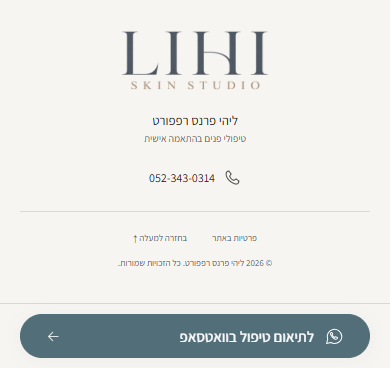
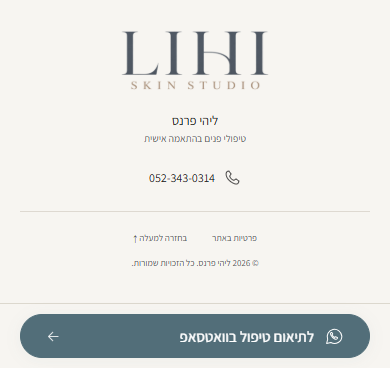
Use Lihi Parnes consistently across website text and metadata

Changed region(s): [[0.3077, 0.6875, 0.7077, 0.7473], [0.4, 0.2989, 0.6154, 0.3587]]

diff --git a/src/main.js b/src/main.js
@@ -46,7 +46,7 @@ document.querySelector('#app').innerHTML = `
   <main id="main">
     <section class="hero" id="home" aria-labelledby="hero-title"><div class="hero-inner wrap">
       <div class="hero-copy"><div class="hero-eyebrow"><span></span>קוסמטיקה אישית. מחשבה עמוקה.</div><h1 id="hero-title">הדרך שלך <br>לעור בריא ומלא<br><span>ביטחון מתחילה כאן.</span></h1><p>טיפולי פנים בהתאמה אישית, אבחון מקצועי<br class="desktop-break"> וליווי בדרך לעור מאוזן ומטופח.</p>${cta()}<div class="hero-trust"><span>${icon('heart')}יחס אישי</span><span>${icon('diamond')}אבחון מקצועי</span><span>${icon('leaf')}התאמה לעור שלך</span></div></div>
-      <div class="hero-visual">${media('hero-portrait', 'hero-media', { priority: true })}<span class="hero-orbit" aria-hidden="true"></span><div class="hero-signature">ליהי פרנס רפפורט<small>טיפול שמתחיל בהקשבה</small></div><button class="hero-video-link" data-lightbox="hero-video" aria-label="הצצה לקליניקה">${icon('play')}<span>רגע של שקט. זמן לעצמך.</span></button></div>
+      <div class="hero-visual">${media('hero-portrait', 'hero-media', { priority: true })}<span class="hero-orbit" aria-hidden="true"></span><div class="hero-signature">ליהי פרנס<small>טיפול שמתחיל בהקשבה</small></div><button class="hero-video-link" data-lightbox="hero-video" aria-label="הצצה לקליניקה">${icon('play')}<span>רגע של שקט. זמן לעצמך.</span></button></div>
     </div><span class="hero-side-note" dir="ltr" lang="en">YOUR SKIN. YOUR STORY.</span></section>
     <div class="brand-note"><span></span><p>כי העור שלך הוא חלק מהסיפור שלך.</p><span></span></div>
 
@@ -57,7 +57,7 @@ document.querySelector('#app').innerHTML = `
 
     <section class="section results-section" id="results"><div class="wrap results-layout"><div class="results-copy">${heading('REAL SKIN. PERSONAL JOURNEY.', 'תוצאות שמדברות<br>בעד עצמן', 'תהליך אישי, תשומת לב לפרטים<br>ומקום לשינוי בקצב של העור שלך.', 'align-start')}<div class="result-description" aria-live="polite"><h3>${results[0].title}</h3><p>${results[0].text}</p></div><div class="carousel-controls"><button class="icon-button result-prev" aria-label="לתוצאה הקודמת">${icon('arrow')}</button><div class="result-dots dots">${results.map((_, i) => `<button aria-label="הצגת תיעוד ${i + 1}" aria-pressed="${i === 0}" data-result="${i}" class="dot ${i === 0 ? 'is-active' : ''}"></button>`).join('')}</div><button class="icon-button result-next" aria-label="לתוצאה הבאה">${icon('arrow')}</button></div><p class="results-note">התוצאות משתנות מאדם לאדם. תיעוד יפורסם בהסכמה בלבד.</p></div><div class="result-stage">${resultMarkup(0)}<span class="slider-hint">${icon('arrow')} גררי כדי להשוות בין לפני ואחרי</span></div></div></section>
 
-    <section class="section about-section wrap" id="about"><div class="about-visual">${media('about-portrait', 'about-portrait')}<button class="certificate" data-lightbox="certification" aria-label="צפייה במקום המיועד לתעודת ההכשרה">${media('certification')}<span>מקצועיות, עד הפרטים הקטנים ${icon('arrow')}</span></button></div><div class="about-copy">${heading('A PERSONAL APPROACH', 'נעים להכיר, ליהי', 'ליהי פרנס רפפורט · קוסמטיקה אישית', 'align-start')}${business.about.map(p => `<p>${p}</p>`).join('')}<div class="about-values"><span>${icon('face')}מסתכלת על העור. רואה אותך.</span><span>${icon('leaf')}התאמה אישית, בכל שלב בדרך.</span><span>${icon('heart')}מרחב נעים, גישה קשובה.</span></div>${business.training ? `<p>${escape(business.training)}</p>` : ''}${cta('בואי נכיר', 'היי ליהי, אשמח להכיר ולשמוע על מפגש ראשון בקליניקה.', 'button-outline')}</div></section>
+    <section class="section about-section wrap" id="about"><div class="about-visual">${media('about-portrait', 'about-portrait')}<button class="certificate" data-lightbox="certification" aria-label="צפייה במקום המיועד לתעודת ההכשרה">${media('certification')}<span>מקצועיות, עד הפרטים הקטנים ${icon('arrow')}</span></button></div><div class="about-copy">${heading('A PERSONAL APPROACH', 'נעים להכיר, ליהי', 'ליהי פרנס · קוסמטיקה אישית', 'align-start')}${business.about.map(p => `<p>${p}</p>`).join('')}<div class="about-values"><span>${icon('face')}מסתכלת על העור. רואה אותך.</span><span>${icon('leaf')}התאמה אישית, בכל שלב בדרך.</span><span>${icon('heart')}מרחב נעים, גישה קשובה.</span></div>${business.training ? `<p>${escape(business.training)}</p>` : ''}${cta('בואי נכיר', 'היי ליהי, אשמח להכיר ולשמוע על מפגש ראשון בקליניקה.', 'button-outline')}</div></section>
 
     <section class="section experience-section" id="experience"><div class="wrap">${heading('THE TREATMENT EXPERIENCE', 'הדרך שלך לעור מטופח', 'תהליך אישי. גישה מקצועית. רגע שהוא רק שלך.')}<div class="steps">${steps.map((step, i) => `<article class="step reveal"><div class="step-icon">${icon(step.icon)}<span dir="ltr">0${i + 1}</span></div><h3>${step.title}</h3><p>${step.text}</p></article>`).join('')}</div><div class="treatment-media"><button class="treatment-film media-button" data-lightbox="treatment-video" aria-label="צפייה בסרטון חוויית הטיפול">${media('treatment-video')}<span class="film-overlay"><span class="play-circle">${icon('play')}</span><span>הצצה לרגע שלך בקליניקה<small>${mediaSource('treatment-video') ? 'טיפול אישי, מקרוב' : 'סרטון הטיפול יתווסף בקרוב'}</small></span></span><span class="film-corner" dir="ltr">A MOMENT FOR YOURSELF</span></button><button class="treatment-detail media-button" data-lightbox="treatment-detail" aria-label="צפייה בפרטים הקטנים של הטיפול">${media('treatment-detail')}</button></div></div></section>
 

diff --git a/src/media.js b/src/media.js
@@ -4,12 +4,12 @@ const asset = (id, section, path, label, ratio, dimensions, options = {}) => ({
 });
 
 export const mediaManifest = [
-  asset('hero-portrait', 'פתיחה', 'hero/hero-portrait.webp', 'ליהי פרנס רפפורט', '3 / 4', '1086 × 1448', { placeholder: false, alt: 'ליהי פרנס רפפורט מחזיקה תכשיר טיפוח מקצועי', tone: 'hero', mobilePath: '/media/hero/hero-mobile.webp', mobileDimensions: '900 × 1200' }),
+  asset('hero-portrait', 'פתיחה', 'hero/hero-portrait.webp', 'ליהי פרנס', '3 / 4', '1086 × 1448', { placeholder: false, alt: 'ליהי פרנס מחזיקה תכשיר טיפוח מקצועי', tone: 'hero', mobilePath: '/media/hero/hero-mobile.webp', mobileDimensions: '900 × 1200' }),
   asset('hero-video', 'פתיחה', 'hero/hero-video.mp4', 'רגע מהקליניקה', '9 / 16', '1080 × 1920', { type: 'video', required: false, posterId: 'hero-portrait' }),
   ...['acne', 'pigmentation', 'texture', 'glow'].map((id, i) => asset(`concern-${id}`, 'נושאי טיפול', `concerns/${id}.webp`, ['אקנה ופצעונים', 'גוון העור', 'מרקם העור', 'זוהר ולחות'][i], '5 / 4', '1000 × 800', { tone: ['clay', 'sand', 'stone', 'blue'][i] })),
   ...['01', '02', '03'].flatMap(id => ['before', 'after'].map(side => asset(`result-${id}-${side}`, 'תוצאות', `results/result-${id}-${side}.webp`, `תוצאה ${id} — ${side === 'before' ? 'לפני' : 'אחרי'}`, id === '01' ? '6 / 7' : '4 / 3', id === '01' ? (side === 'before' ? '692 × 808' : '666 × 786') : '1200 × 900', { placeholder: id !== '01', alt: `תיעוד העור ${side === 'before' ? 'לפני' : 'אחרי'} הטיפול — מבט מהצד`, tone: 'stone', consentRequired: true }))),
-  asset('about-portrait', 'אודות', 'hero/hero-portrait.webp', 'ליהי, במבט אישי', '3 / 4', '1086 × 1448', { placeholder: false, alt: 'ליהי פרנס רפפורט בפורטרט מקצועי', tone: 'clay' }),
-  asset('certification', 'אודות', 'about/certification.webp', 'תעודת ההכשרה', '4 / 5', '806 × 1006', { placeholder: false, alt: 'תעודת סיום תוכנית Advanced P.M.E של ליהי פרנס רפפורט מטעם חוה זינגבוים', tone: 'paper' }),
+  asset('about-portrait', 'אודות', 'hero/hero-portrait.webp', 'ליהי, במבט אישי', '3 / 4', '1086 × 1448', { placeholder: false, alt: 'ליהי פרנס בפורטרט מקצועי', tone: 'clay' }),
+  asset('certification', 'אודות', 'about/certification.webp', 'תעודת ההכשרה', '4 / 5', '806 × 1006', { placeholder: false, alt: 'תעודת סיום תוכנית Advanced P.M.E של ליהי פרנס מטעם חוה זינגבוים', tone: 'paper' }),
   asset('treatment-video', 'חוויית הטיפול', 'treatments/treatment-video.mp4', 'הצצה לחוויית הטיפול', '16 / 7', '1920 × 840', { type: 'video', posterId: 'treatment-poster', tone: 'blue' }),
   asset('treatment-poster', 'חוויית הטיפול', 'treatments/treatment-video-poster.webp', 'תמונת שער לסרטון הטיפול', '16 / 7', '1920 × 840', { required: false }),
   asset('treatment-detail', 'חוויית הטיפול', 'treatments/treatment-detail.webp', 'הפרטים הקטנים של הטיפול', '4 / 5', '1000 × 1250', { required: false }),

diff --git a/index.html b/index.html
@@ -4,11 +4,11 @@
     <meta charset="UTF-8" />
     <meta name="viewport" content="width=device-width, initial-scale=1" />
     <meta name="theme-color" content="#f7f5f1" />
-    <title>LIHI SKIN STUDIO | ליהי פרנס רפפורט — טיפולי פנים בהתאמה אישית</title>
-    <meta name="description" content="LIHI SKIN STUDIO — ליהי פרנס רפפורט. טיפולי פנים, אבחון מקצועי והתאמה אישית. הדרך שלך לעור מטופח מתחילה בהיכרות." />
-    <meta property="og:title" content="LIHI SKIN STUDIO | ליהי פרנס רפפורט" />
+    <title>LIHI SKIN STUDIO | ליהי פרנס — טיפולי פנים בהתאמה אישית</title>
+    <meta name="description" content="LIHI SKIN STUDIO — ליהי פרנס. טיפולי פנים, אבחון מקצועי והתאמה אישית. הדרך שלך לעור מטופח מתחילה בהיכרות." />
+    <meta property="og:title" content="LIHI SKIN STUDIO | ליהי פרנס" />
     <meta property="og:site_name" content="LIHI SKIN STUDIO" />
-    <meta property="og:description" content="טיפול אישי. גישה מקצועית. מקום לעצמך ולעור שלך. ליהי פרנס רפפורט — LIHI SKIN STUDIO." />
+    <meta property="og:description" content="טיפול אישי. גישה מקצועית. מקום לעצמך ולעור שלך. ליהי פרנס — LIHI SKIN STUDIO." />
     <meta property="og:type" content="website" />
     <meta property="og:locale" content="he_IL" />
     <meta property="og:image" content="/brand/social-share.png" />
@@ -17,7 +17,7 @@
     <meta property="og:image:height" content="630" />
     <meta property="og:image:alt" content="הלוגו של LIHI SKIN STUDIO" />
     <meta name="twitter:card" content="summary_large_image" />
-    <meta name="twitter:title" content="LIHI SKIN STUDIO | ליהי פרנס רפפורט" />
+    <meta name="twitter:title" content="LIHI SKIN STUDIO | ליהי פרנס" />
     <meta name="twitter:description" content="טיפולי פנים, אבחון מקצועי והתאמה אישית. מקום לעצמך ולעור שלך." />
     <meta name="twitter:image" content="/brand/social-share.png" />
     <meta name="twitter:image:alt" content="הלוגו של LIHI SKIN STUDIO" />

diff --git a/src/content.js b/src/content.js
@@ -1,9 +1,9 @@
 export const business = {
-  name: 'ליהי פרנס רפפורט', brand: 'LIHI SKIN STUDIO', tagline: 'SKIN STUDIO',
+  name: 'ליהי פרנס', brand: 'LIHI SKIN STUDIO', tagline: 'SKIN STUDIO',
   phone: '+972523430314', displayPhone: '052-343-0314', whatsapp: '972523430314',
   location: 'רמלה', locationConfirmed: false, instagram: '', privacyUrl: '',
   about: [
-    'אני ליהי פרנס רפפורט. בעיניי, הדרך לעור מטופח מתחילה בהקשבה — לך, לעור שלך ולמה שהוא צריך באמת.',
+    'אני ליהי פרנס. בעיניי, הדרך לעור מטופח מתחילה בהקשבה — לך, לעור שלך ולמה שהוא צריך באמת.',
     'כל עור מספר סיפור אחר. לכן אני מאמינה בהתאמה אישית, בגישה רגישה ובתהליך שמאפשר לך להבין את העור שלך ולהרגיש איתו בנוח.'
   ],
   training: '', // Add only after confirming the certificate and exact wording.

diff --git a/docs/MEDIA-GUIDE.md b/docs/MEDIA-GUIDE.md
@@ -28,10 +28,10 @@
 דוגמה ברשומת תמונת הפתיחה:
 
 ```js
-asset('hero-portrait', 'פתיחה', 'hero/hero-portrait.webp', 'ליהי פרנס רפפורט', '4 / 5', '1440 × 1800', {
+asset('hero-portrait', 'פתיחה', 'hero/hero-portrait.webp', 'ליהי פרנס', '4 / 5', '1440 × 1800', {
   tone: 'hero',
   placeholder: false,
-  alt: 'ליהי פרנס רפפורט בקליניקה',
+  alt: 'ליהי פרנס בקליניקה',
   mobilePath: '/media/hero/hero-mobile.webp',
   mobileDimensions: '900 × 1125',
 })

diff --git a/README.md b/README.md
@@ -1,4 +1,4 @@
-# LIHI SKIN STUDIO — ליהי פרנס רפפורט
+# LIHI SKIN STUDIO — ליהי פרנס
 
 A complete Hebrew RTL skincare landing page, built with semantic HTML, modular JavaScript, CSS and Vite. No backend, database, tracking or external runtime services. The three supplied mockups guide the visual design; none of their photos, reviews or results are reused.
 

diff --git a/docs/BRAND-REVIEW.md b/docs/BRAND-REVIEW.md
@@ -1,6 +1,6 @@
 # LIHI SKIN STUDIO — בדיקת שילוב המותג
 
-השם המקצועי עודכן לפי הבריף הנוכחי ל־**ליהי פרנס רפפורט**.
+השם המקצועי עודכן לפי הבריף הנוכחי ל־**ליהי פרנס**.
 
 ## הלוגו
 
